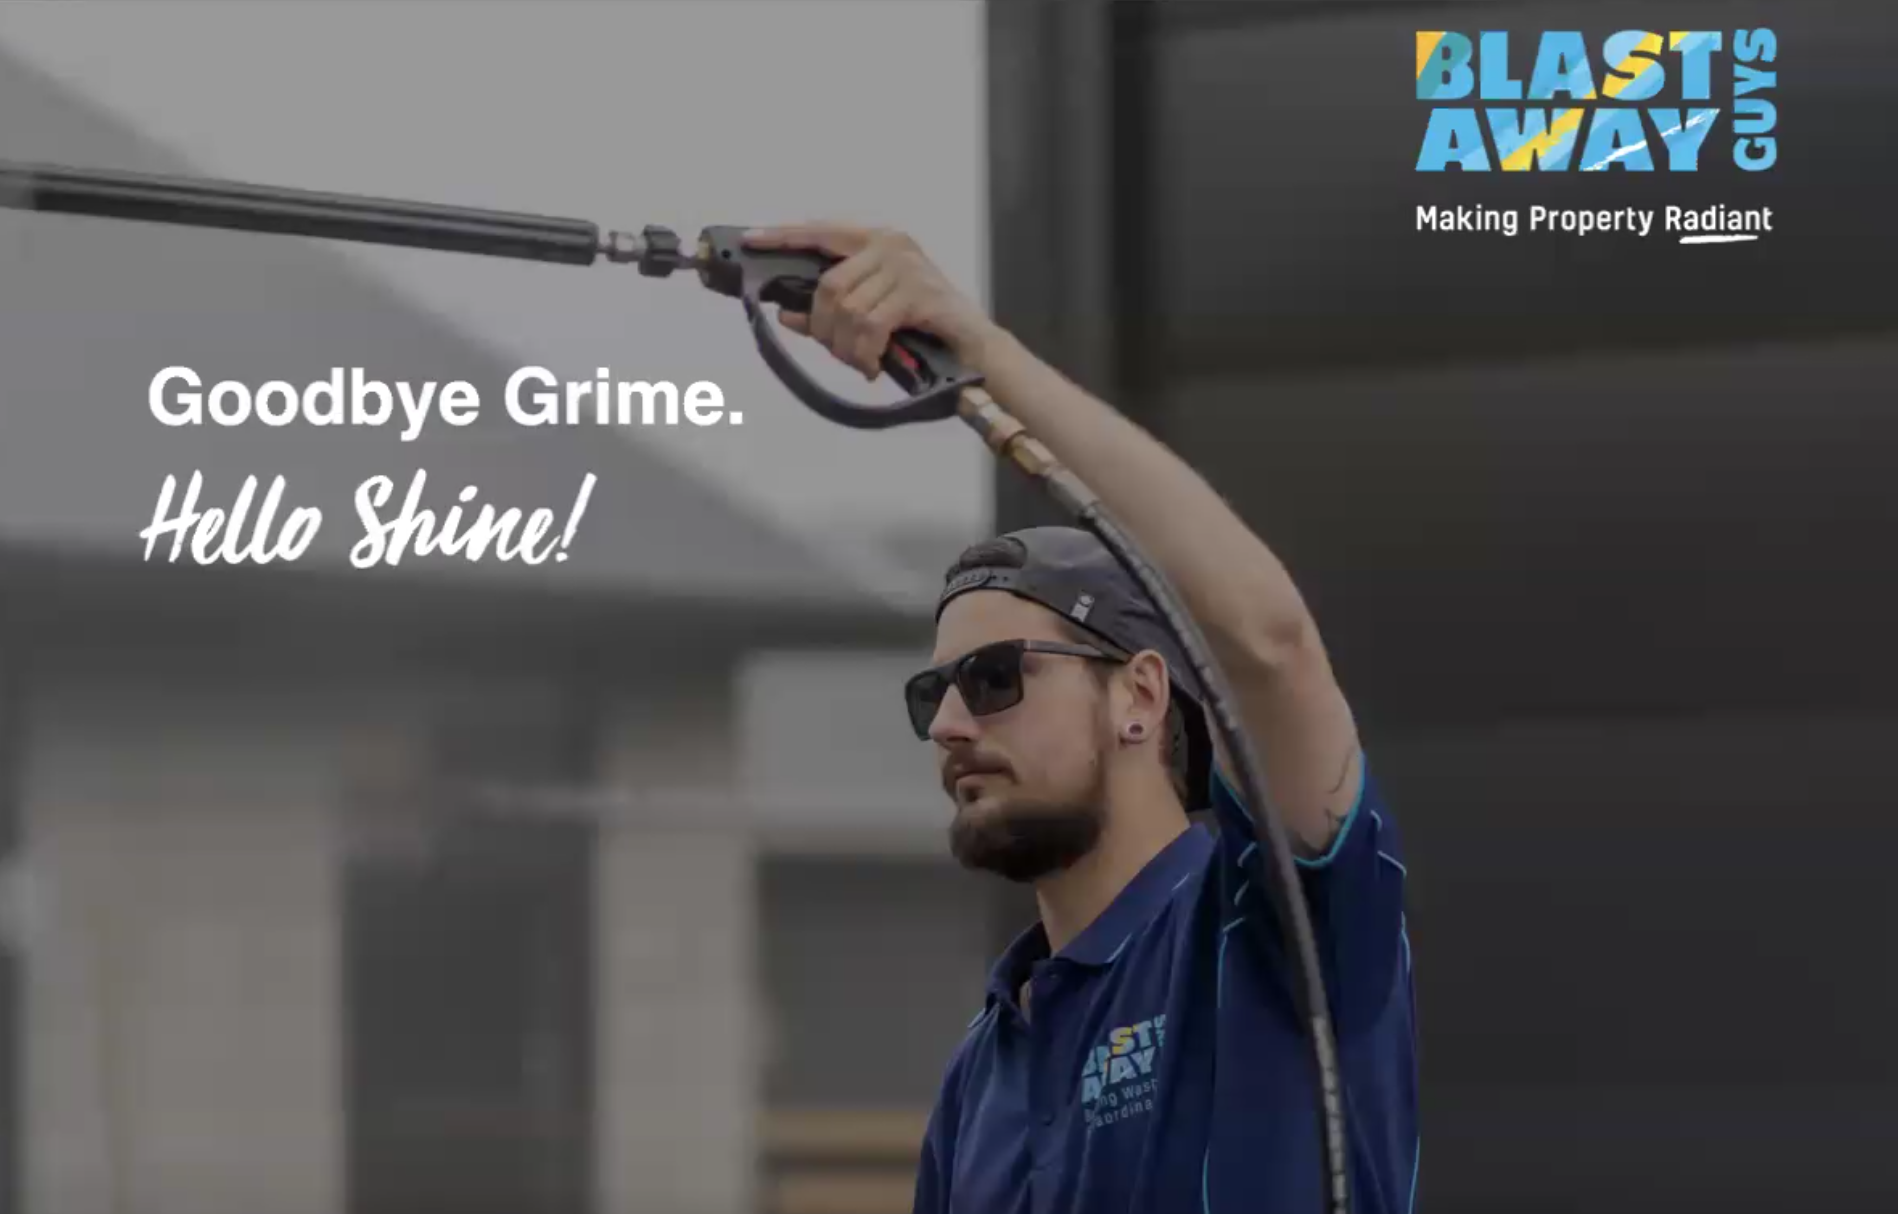
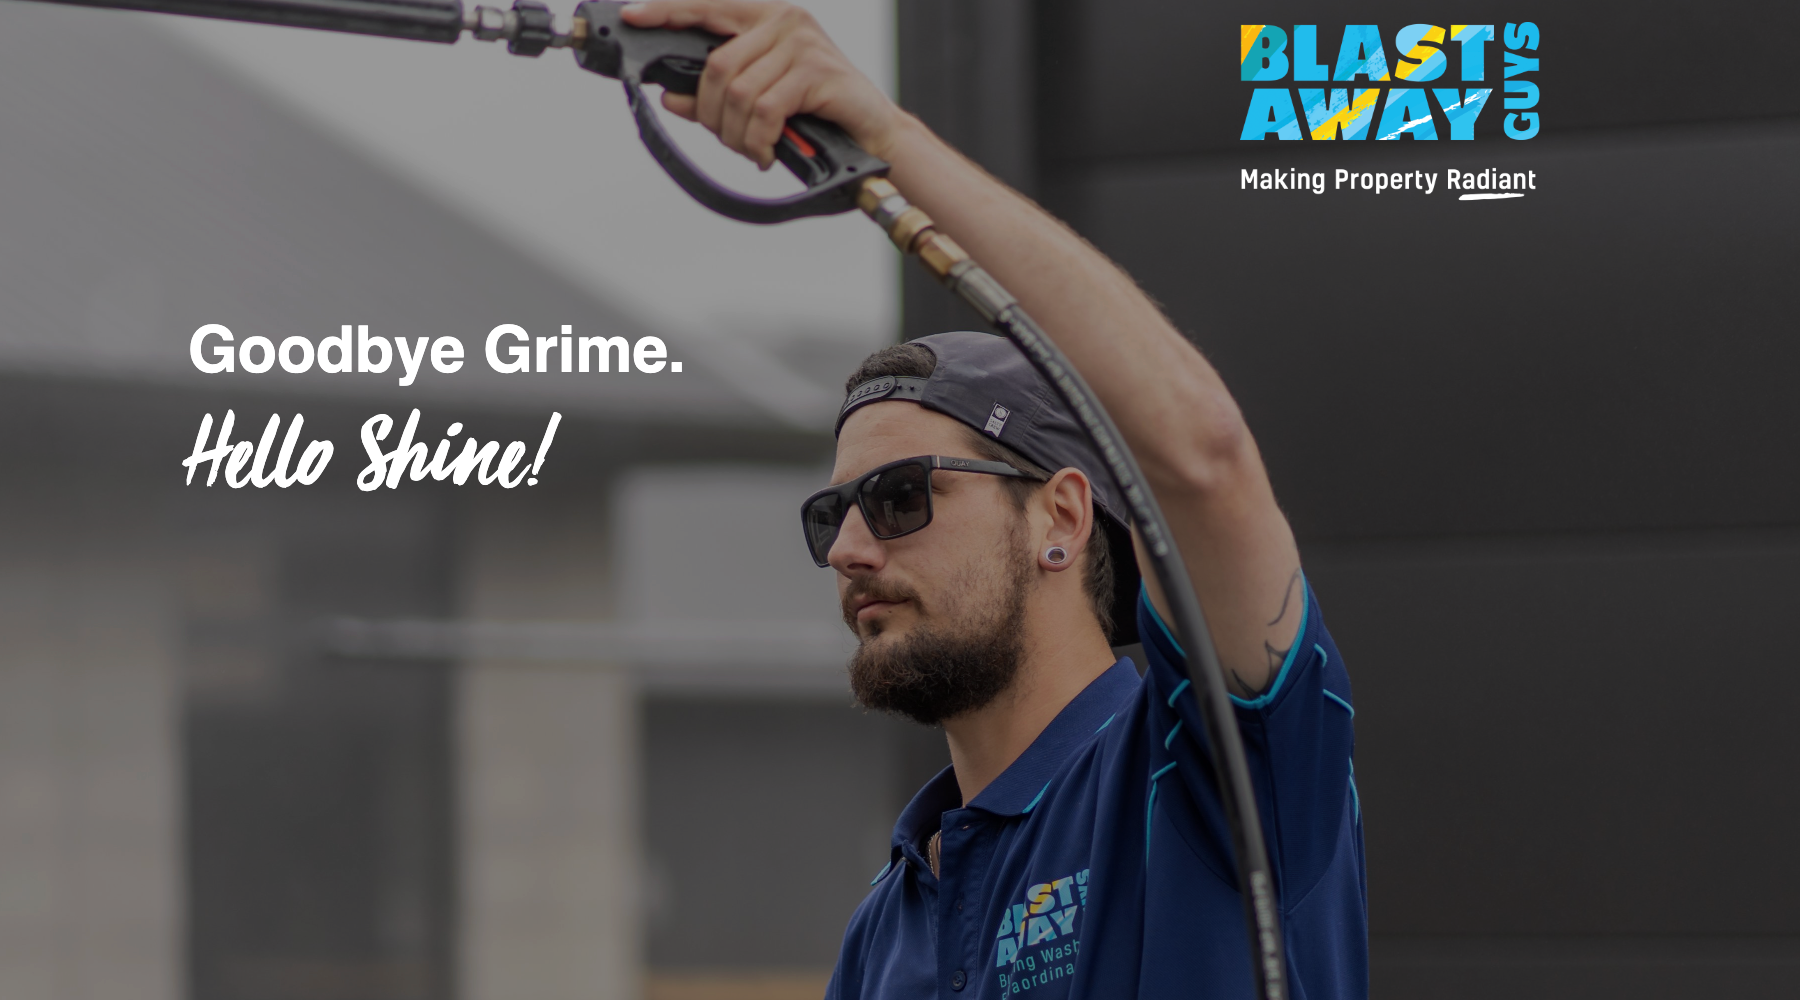
Updated design

diff --git a/client/src/articles/templates/Article.scss b/client/src/articles/templates/Article.scss
@@ -77,7 +77,7 @@
     &__image, &__video {
         width: 97.5%;
         object-fit: contain;
-        max-height: 450px;
+        max-height: 400px;
         border-radius: 7.5px;
         filter: drop-shadow(4px 4px 6px rgb(220, 220, 220));
     }

diff --git a/client/src/sections/Process.scss b/client/src/sections/Process.scss
@@ -56,6 +56,7 @@
         border-radius: 8px;
         background-color: #00000032;
         object-fit: cover;
+        filter: drop-shadow(4px 4px 6px rgb(220, 220, 220));
     }
 
     &__image-text {

diff --git a/client/src/components/Header/Header.scss b/client/src/components/Header/Header.scss
@@ -124,7 +124,6 @@
     }
 
     &__menu-item.active {
-        font-size: 1.05rem;
         font-weight: 900;
 
         &:hover {
